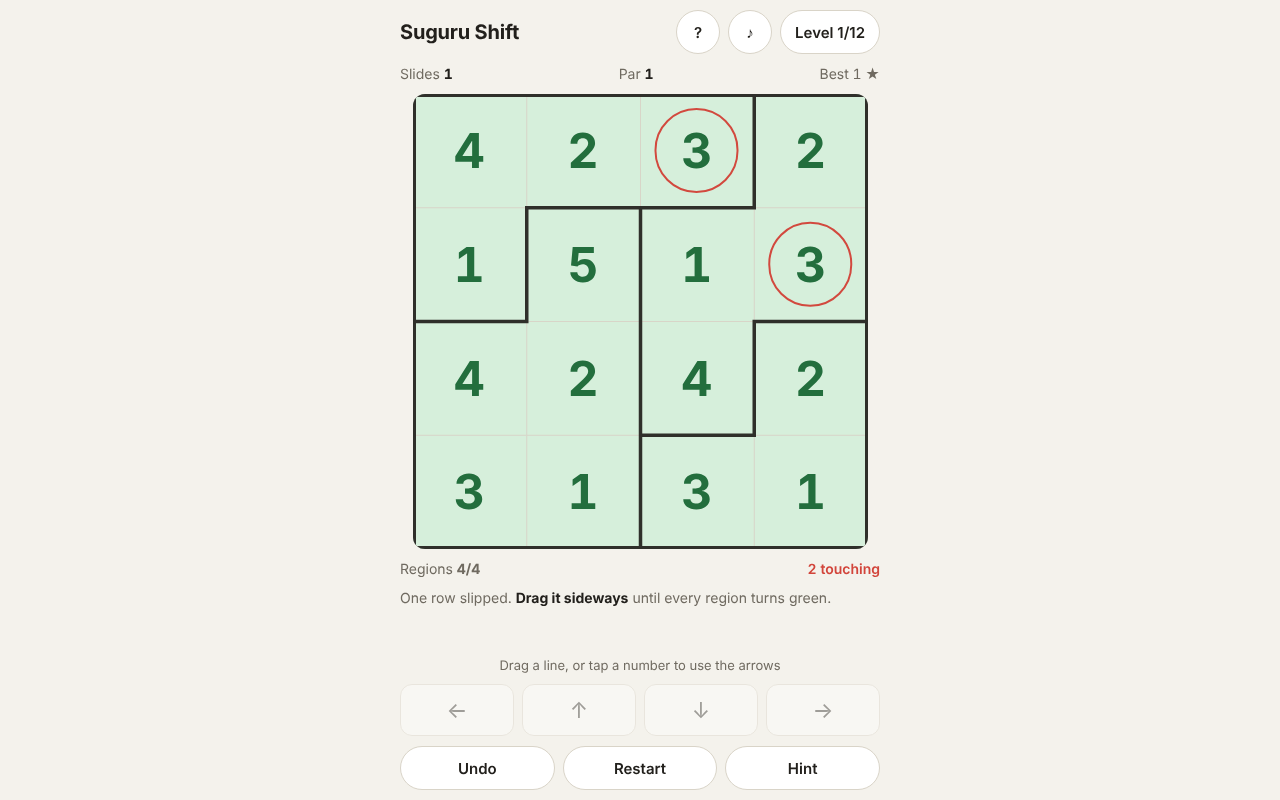
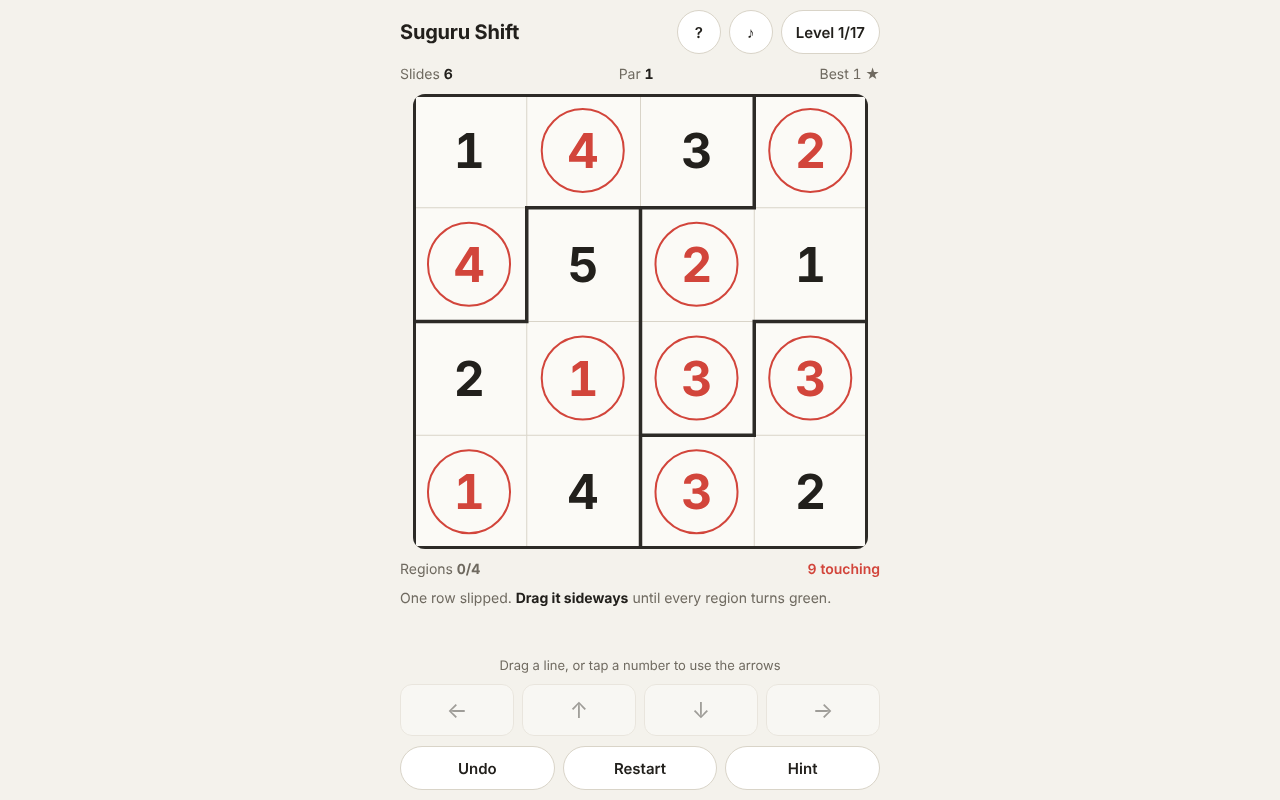
suguru-shift: night 2 brief + pins (5 new levels), live drag preview, two-step explaining hint
Claude-Session: https://claude.ai/code/session_014Xx1rMEJ4mQL23pJPUct2A

Changed region(s): [[0.3125, 0.0938, 0.6875, 0.6875], [0.625, 0.0312, 0.6875, 0.0625]]

diff --git a/games/suguru-shift/index.html b/games/suguru-shift/index.html
@@ -47,6 +47,11 @@
   .tile span { display: grid; place-items: center; width: 74%; height: 74%; border-radius: 50%; border: 2.5px solid transparent; }
   .tile.clash span { border-color: var(--clash); color: var(--clash); }
   .tile.okc span { color: var(--ok-ink); }
+  .tile.pin span { background: var(--wall); color: var(--cell); }
+  .tile.pin.clash span { color: var(--cell); }
+  .tile.pin::after { content: ""; position: absolute; top: 11%; right: 11%; width: 15%; height: 15%; border-radius: 50%; background: var(--hint); box-shadow: 0 0 0 2px var(--cell); }
+  .cell.why { background: color-mix(in srgb, var(--hint) 28%, var(--cell)); }
+  .cell.ok.why { background: color-mix(in srgb, var(--hint) 28%, var(--ok)); }
   #walls { position: absolute; inset: 0; pointer-events: none; }
   #cursor { position: absolute; border: 3px solid var(--sel); border-radius: 8px; pointer-events: none; display: none; }
   #flash { position: absolute; inset: 0; pointer-events: none; background: var(--ok); opacity: 0; transition: opacity .5s; }
@@ -60,6 +65,7 @@
   .pad { display: grid; grid-template-columns: repeat(4, 1fr); gap: 8px; }
   .pad button { min-height: 52px; border-radius: 12px; border: 1px solid var(--line); background: var(--panel); font-size: 22px; cursor: pointer; }
   .pad button:disabled { opacity: .4; cursor: default; }
+  .pad button.lockd { opacity: .4; }
   .chip.pulse { box-shadow: 0 0 0 3px var(--hint); }
   body.won .tools { display: none; }
   #win .row .chip { padding: 0 8px; }
@@ -147,6 +153,7 @@
     <p>This was a solved <strong>Suguru</strong>. A few rows and columns slipped. Slide them back.</p>
     <p>A region of N cells must hold 1 to N once each. The same number may never touch another, not even diagonally.</p>
     <p>Regions turn <strong>green</strong> when they hold the right numbers. <strong>Red rings</strong> mark equal numbers that touch.</p>
+    <p>A <strong>dark number</strong> is pinned: it is in its right place, and its row and column can't slide.</p>
     <p>Drag a row sideways or a column up and down; numbers wrap around the edge. Or tap a number and use the arrows. Each step a line moves is one slide.</p>
     <p class="keys">Keys: arrows move the cursor, Shift+arrow (or Space, then arrow) slides its line. Z undo · R restart · H hint · N next.</p>
     <button class="chip" id="helpClose">Got it</button>
@@ -155,7 +162,7 @@
 <script>
 "use strict";
 // ================= constants / levels =================
-const LEVELS = [{"w":4,"h":4,"regions":[0,0,0,1,0,2,1,1,2,2,1,3,2,2,3,3],"goal":[3,2,4,2,1,5,1,3,4,2,4,2,3,1,3,1],"start":[2,4,2,3,1,5,1,3,4,2,4,2,3,1,3,1],"solution":["r0R"],"par":1},{"w":4,"h":4,"regions":[1,0,0,3,1,1,0,0,1,1,0,2,2,2,2,2],"goal":[4,3,4,1,1,5,2,5,2,3,1,3,1,4,2,5],"start":[4,3,2,1,1,5,4,5,2,3,2,3,1,4,1,5],"solution":["c2U"],"par":1},{"w":4,"h":4,"regions":[1,3,3,2,1,2,2,2,1,1,0,2,1,0,0,0],"goal":[4,2,1,2,1,5,4,3,2,3,2,1,5,1,4,3],"start":[2,1,2,4,3,1,5,4,2,3,2,1,5,1,4,3],"solution":["r0R","r1L"],"par":2},{"w":5,"h":5,"regions":[0,0,2,2,2,0,0,0,2,4,3,3,3,2,4,5,3,3,4,4,1,1,1,1,4],"goal":[2,4,2,1,3,1,5,3,5,2,2,4,1,4,1,1,5,3,5,3,3,2,4,1,4],"start":[3,4,2,1,3,2,1,5,3,5,2,4,1,4,1,2,5,3,5,3,1,2,4,1,4],"solution":["c0U","r1L"],"par":2},{"w":5,"h":5,"regions":[0,1,1,1,1,0,0,6,2,2,5,0,0,2,2,5,3,4,4,2,3,3,3,4,4],"goal":[2,3,2,4,1,1,4,1,3,2,2,3,5,4,1,1,4,2,3,5,2,3,1,4,1],"start":[2,3,2,4,1,1,4,1,3,2,3,5,4,1,2,5,1,4,2,3,2,3,1,4,1],"solution":["r2R","r3L"],"par":2},{"w":5,"h":5,"regions":[4,4,2,5,5,4,4,2,0,0,3,3,2,2,0,3,1,6,2,0,1,1,1,1,0],"goal":[1,2,5,2,1,3,4,1,4,3,1,2,3,2,5,3,5,1,4,1,1,4,2,3,2],"start":[1,2,5,2,2,3,4,1,4,1,3,1,2,3,2,5,3,5,1,4,1,4,2,3,1],"solution":["r2L","r3L","c4U"],"par":3},{"w":5,"h":5,"regions":[2,2,1,1,3,0,1,1,3,3,0,0,0,4,3,5,0,6,4,3,5,5,4,4,4],"goal":[2,1,2,1,4,3,4,3,5,2,1,5,2,4,1,3,4,1,5,3,1,2,3,2,1],"start":[1,1,2,1,4,2,4,3,1,2,3,5,2,5,1,1,4,1,4,3,2,3,2,5,3],"solution":["c3U","r4R","c0U"],"par":3},{"w":6,"h":6,"regions":[6,6,6,0,3,3,2,6,6,0,0,3,2,2,2,7,7,3,2,1,7,7,4,3,1,1,5,4,4,4,1,1,5,5,5,4],"goal":[1,2,5,2,4,1,3,4,3,1,3,2,1,2,5,2,4,5,4,3,1,3,1,3,1,2,4,5,4,2,4,5,3,2,1,3],"start":[1,2,5,1,4,1,2,3,4,3,5,3,5,1,2,3,2,4,4,3,1,5,1,3,1,2,4,2,4,2,4,5,3,2,1,3],"solution":["r1L","c3D","r2L"],"par":3},{"w":6,"h":6,"regions":[7,7,3,3,3,3,7,7,2,3,5,5,1,2,2,4,0,0,1,6,2,4,4,0,1,6,6,4,4,0,1,1,6,6,8,0],"goal":[1,3,1,3,4,5,4,2,4,2,1,2,3,1,3,5,4,5,4,5,2,1,2,1,1,3,4,3,4,3,5,2,1,2,1,2],"start":[1,3,1,2,4,5,4,2,4,4,1,2,1,3,5,2,5,3,5,2,1,4,1,4,3,1,3,2,3,4,5,2,1,3,1,2],"solution":["c3D","r2R","r3R","r4L"],"par":4},{"w":6,"h":6,"regions":[8,8,8,1,1,3,2,2,8,1,1,3,2,2,2,7,1,3,0,0,0,0,6,3,4,4,0,5,6,6,4,4,5,5,5,6],"goal":[3,2,1,5,1,3,1,5,4,2,4,2,4,2,3,1,3,1,3,1,5,4,2,4,2,4,2,1,3,1,3,1,3,4,2,4],"start":[3,2,1,5,1,3,1,5,4,2,4,2,1,4,2,3,1,3,4,3,1,5,4,2,4,2,1,3,1,2,1,3,4,2,4,3],"solution":["r2L","r3L","r4R","r5R"],"par":4},{"w":6,"h":6,"regions":[1,1,8,2,2,3,1,1,8,0,3,3,6,1,8,0,3,3,6,6,6,0,0,4,6,5,7,7,0,4,5,5,5,5,4,4],"goal":[2,1,2,1,2,1,3,4,3,4,3,4,2,5,1,2,5,2,1,3,4,3,1,4,5,2,1,2,5,3,1,4,5,3,1,2],"start":[4,2,1,2,1,1,2,3,4,3,4,2,1,5,1,2,5,3,5,3,4,3,1,2,4,2,1,2,5,4,1,5,3,1,2,3],"solution":["c0D","c5U","r0L","r1L","r5R"],"par":5},{"w":6,"h":6,"regions":[4,4,6,0,0,8,4,4,6,0,0,7,4,5,1,0,2,7,5,5,1,1,2,7,5,3,3,1,2,7,3,3,3,1,2,2],"goal":[1,4,1,4,2,1,5,3,2,3,5,3,2,1,5,1,2,4,4,3,2,4,3,1,2,1,5,1,5,2,3,4,2,3,4,1],"start":[4,2,4,2,3,1,5,3,5,3,5,4,2,1,2,1,2,1,2,4,3,1,4,3,1,5,2,5,1,2,4,1,3,4,1,3],"solution":["r0R","r3L","r5R","c2D","r4R","c5D"],"par":6}];
+const LEVELS = [{"w":4,"h":4,"regions":[0,0,0,1,0,2,1,1,2,2,1,3,2,2,3,3],"goal":[3,2,4,2,1,5,1,3,4,2,4,2,3,1,3,1],"start":[2,4,2,3,1,5,1,3,4,2,4,2,3,1,3,1],"solution":["r0R"],"par":1},{"w":4,"h":4,"regions":[1,0,0,3,1,1,0,0,1,1,0,2,2,2,2,2],"goal":[4,3,4,1,1,5,2,5,2,3,1,3,1,4,2,5],"start":[4,3,2,1,1,5,4,5,2,3,2,3,1,4,1,5],"solution":["c2U"],"par":1},{"w":4,"h":4,"regions":[1,3,3,2,1,2,2,2,1,1,0,2,1,0,0,0],"goal":[4,2,1,2,1,5,4,3,2,3,2,1,5,1,4,3],"start":[2,1,2,4,3,1,5,4,2,3,2,1,5,1,4,3],"solution":["r0R","r1L"],"par":2},{"w":5,"h":5,"regions":[0,0,2,2,2,0,0,0,2,4,3,3,3,2,4,5,3,3,4,4,1,1,1,1,4],"goal":[2,4,2,1,3,1,5,3,5,2,2,4,1,4,1,1,5,3,5,3,3,2,4,1,4],"start":[3,4,2,1,3,2,1,5,3,5,2,4,1,4,1,2,5,3,5,3,1,2,4,1,4],"solution":["c0U","r1L"],"par":2},{"w":5,"h":5,"regions":[0,1,1,1,1,0,0,6,2,2,5,0,0,2,2,5,3,4,4,2,3,3,3,4,4],"goal":[2,3,2,4,1,1,4,1,3,2,2,3,5,4,1,1,4,2,3,5,2,3,1,4,1],"start":[2,3,2,4,1,1,4,1,3,2,3,5,4,1,2,5,1,4,2,3,2,3,1,4,1],"solution":["r2R","r3L"],"par":2},{"w":5,"h":5,"regions":[4,4,2,5,5,4,4,2,0,0,3,3,2,2,0,3,1,6,2,0,1,1,1,1,0],"goal":[1,2,5,2,1,3,4,1,4,3,1,2,3,2,5,3,5,1,4,1,1,4,2,3,2],"start":[1,2,5,2,2,3,4,1,4,1,3,1,2,3,2,5,3,5,1,4,1,4,2,3,1],"solution":["r2L","r3L","c4U"],"par":3},{"w":5,"h":5,"regions":[2,2,1,1,3,0,1,1,3,3,0,0,0,4,3,5,0,6,4,3,5,5,4,4,4],"goal":[2,1,2,1,4,3,4,3,5,2,1,5,2,4,1,3,4,1,5,3,1,2,3,2,1],"start":[1,1,2,1,4,2,4,3,1,2,3,5,2,5,1,1,4,1,4,3,2,3,2,5,3],"solution":["c3U","r4R","c0U"],"par":3},{"w":6,"h":6,"regions":[6,6,6,0,3,3,2,6,6,0,0,3,2,2,2,7,7,3,2,1,7,7,4,3,1,1,5,4,4,4,1,1,5,5,5,4],"goal":[1,2,5,2,4,1,3,4,3,1,3,2,1,2,5,2,4,5,4,3,1,3,1,3,1,2,4,5,4,2,4,5,3,2,1,3],"start":[1,2,5,1,4,1,2,3,4,3,5,3,5,1,2,3,2,4,4,3,1,5,1,3,1,2,4,2,4,2,4,5,3,2,1,3],"solution":["r1L","c3D","r2L"],"par":3},{"w":6,"h":6,"regions":[7,7,3,3,3,3,7,7,2,3,5,5,1,2,2,4,0,0,1,6,2,4,4,0,1,6,6,4,4,0,1,1,6,6,8,0],"goal":[1,3,1,3,4,5,4,2,4,2,1,2,3,1,3,5,4,5,4,5,2,1,2,1,1,3,4,3,4,3,5,2,1,2,1,2],"start":[1,3,1,2,4,5,4,2,4,4,1,2,1,3,5,2,5,3,5,2,1,4,1,4,3,1,3,2,3,4,5,2,1,3,1,2],"solution":["c3D","r2R","r3R","r4L"],"par":4},{"w":6,"h":6,"regions":[8,8,8,1,1,3,2,2,8,1,1,3,2,2,2,7,1,3,0,0,0,0,6,3,4,4,0,5,6,6,4,4,5,5,5,6],"goal":[3,2,1,5,1,3,1,5,4,2,4,2,4,2,3,1,3,1,3,1,5,4,2,4,2,4,2,1,3,1,3,1,3,4,2,4],"start":[3,2,1,5,1,3,1,5,4,2,4,2,1,4,2,3,1,3,4,3,1,5,4,2,4,2,1,3,1,2,1,3,4,2,4,3],"solution":["r2L","r3L","r4R","r5R"],"par":4},{"w":6,"h":6,"regions":[1,1,8,2,2,3,1,1,8,0,3,3,6,1,8,0,3,3,6,6,6,0,0,4,6,5,7,7,0,4,5,5,5,5,4,4],"goal":[2,1,2,1,2,1,3,4,3,4,3,4,2,5,1,2,5,2,1,3,4,3,1,4,5,2,1,2,5,3,1,4,5,3,1,2],"start":[4,2,1,2,1,1,2,3,4,3,4,2,1,5,1,2,5,3,5,3,4,3,1,2,4,2,1,2,5,4,1,5,3,1,2,3],"solution":["c0D","c5U","r0L","r1L","r5R"],"par":5},{"w":6,"h":6,"regions":[4,4,6,0,0,8,4,4,6,0,0,7,4,5,1,0,2,7,5,5,1,1,2,7,5,3,3,1,2,7,3,3,3,1,2,2],"goal":[1,4,1,4,2,1,5,3,2,3,5,3,2,1,5,1,2,4,4,3,2,4,3,1,2,1,5,1,5,2,3,4,2,3,4,1],"start":[4,2,4,2,3,1,5,3,5,3,5,4,2,1,2,1,2,1,2,4,3,1,4,3,1,5,2,5,1,2,4,1,3,4,1,3],"solution":["r0R","r3L","r5R","c2D","r4R","c5D"],"par":6},{"w":5,"h":5,"regions":[3,3,5,1,6,3,3,5,1,1,2,2,5,1,1,4,2,2,0,0,4,4,0,0,0],"goal":[2,1,2,5,1,3,4,3,4,3,1,2,1,2,1,3,4,3,4,5,2,1,2,1,3],"start":[1,2,1,2,5,3,4,3,4,3,2,1,2,1,1,3,4,3,4,5,2,1,2,1,3],"pins":[9],"solution":["r0L","r2R"],"par":2},{"w":5,"h":5,"regions":[4,4,1,1,6,4,0,3,1,1,0,0,3,2,1,0,3,3,2,2,5,5,3,2,2],"goal":[2,1,2,4,1,3,4,3,5,3,2,1,2,4,1,3,4,5,3,5,1,2,1,2,1],"start":[2,1,2,4,1,3,4,3,5,3,1,2,1,2,4,5,3,4,5,3,2,1,2,1,1],"pins":[4],"solution":["r2L","r3L","r4R"],"par":3},{"w":5,"h":5,"regions":[6,3,3,4,4,1,1,3,3,4,1,1,2,2,2,1,0,0,2,2,5,5,0,0,0],"goal":[1,3,1,3,2,2,4,2,4,1,1,3,1,3,2,5,4,5,4,5,1,2,3,1,2],"start":[1,3,1,3,1,1,4,2,4,2,5,2,3,1,3,1,4,5,4,2,5,2,3,1,2],"pins":[18,22],"solution":["r2L","c0U","c4D"],"par":3},{"w":6,"h":6,"regions":[0,0,8,8,4,4,0,8,8,2,4,4,0,3,3,2,2,2,0,3,3,5,5,2,6,6,3,1,1,1,6,6,6,1,1,7],"goal":[4,5,4,3,4,3,1,2,1,2,1,2,3,5,3,4,5,3,2,1,2,1,2,1,5,3,4,3,5,4,4,1,2,1,2,1],"start":[4,1,4,3,4,3,2,5,2,1,2,1,3,1,3,4,5,3,2,5,2,1,2,1,4,1,3,4,3,5,4,5,2,1,2,1],"pins":[18,34],"solution":["c1U","r1L","r4L"],"par":3},{"w":6,"h":6,"regions":[7,7,5,1,2,6,7,4,5,1,2,6,4,4,5,1,2,6,4,4,5,1,2,6,3,3,3,8,8,6,3,3,0,0,0,0],"goal":[2,1,2,1,2,1,3,5,4,3,4,3,1,2,1,2,1,2,3,4,3,4,3,4,2,1,5,1,2,5,4,3,2,4,3,1],"start":[1,2,4,2,3,3,3,5,1,3,1,2,1,2,3,2,4,4,3,4,5,4,1,5,2,1,2,1,3,1,4,3,1,4,2,2],"pins":[12,9],"solution":["c2D","c4U","c5D","r0L"],"par":4}];
 const TIPS = [
   "One row slipped. <strong>Drag it sideways</strong> until every region turns green.",
   "This time a <strong>column</strong> slipped. Drag it up or down.",
@@ -165,18 +172,25 @@ const TIPS = [
   "Three slides. Look for the region that is most wrong, and ask which line runs through it.",
   "Rows and columns both moved. Undo is free; try a slide and read the colours.",
   "6×6 now. A slid line wraps around: what falls off one edge comes back on the other.",
-  "Four slides. Hint shows the next slide if you get stuck (it still counts your slides).",
+  "Four slides. Hint points at a clue; press it again for the direction.",
   "Four slides, mixed rows and columns. Order matters when a row and a column cross.",
   "Five slides. Par is the fewest slides that solve it.",
-  "The last one: six slides. Take your time.",
+  "Six slides. Take your time.",
+  "New: a <strong>pin</strong>. The dark number is in its right place, and its row and column can't slide.",
+  "Without the pin this board has two answers. The pin tells you which one is right.",
+  "Two pins hold two rows and two columns. Fewer lines to try, so read each one carefully.",
+  "6×6 with two pins. A pinned number never moves, but a column can still slide through a pinned row.",
+  "The last one: four slides around two pins.",
 ];
 const STORE = "suguru-shift.v1";
 
 // ================= core (pure, no DOM) =================
-function moveList(W, H) {
-  const m = [];
-  for (let r = 0; r < H; r++) m.push("r" + r + "L", "r" + r + "R");
-  for (let c = 0; c < W; c++) m.push("c" + c + "U", "c" + c + "D");
+// a pin fixes its number: its row and its column can't slide
+function lockedLines(W, pins) { const s = new Set(); for (const k of pins || []) { s.add("r" + Math.floor(k / W)); s.add("c" + (k % W)); } return s; }
+function moveList(W, H, pins) {
+  const m = [], lk = lockedLines(W, pins);
+  for (let r = 0; r < H; r++) if (!lk.has("r" + r)) m.push("r" + r + "L", "r" + r + "R");
+  for (let c = 0; c < W; c++) if (!lk.has("c" + c)) m.push("c" + c + "U", "c" + c + "D");
   return m;
 }
 function parseMove(mv) { return { t: mv[0], i: +mv.slice(1, -1), d: mv[mv.length - 1] }; }
@@ -203,10 +217,10 @@ function analyse(g, W, H, reg, size) {
   return { valid: okRegions.size === R && clash.size === 0, okRegions, clash };
 }
 // shortest slide list from grid a to grid b (bidirectional BFS), or null past the node budget
-function pathBetween(a, b, W, H, budget = 90000) {
+function pathBetween(a, b, W, H, pins, budget = 90000) {
   const ka = a.join(","), kb = b.join(",");
   if (ka === kb) return [];
-  const moves = moveList(W, H);
+  const moves = moveList(W, H, pins);
   const fw = new Map([[ka, null]]), bw = new Map([[kb, null]]);
   let fq = [a], bq = [b], count = 2;
   const trace = (map, k, fwd) => { const out = []; while (map.get(k)) { const [pk, mv] = map.get(k); out.push(mv); k = pk; } return fwd ? out.reverse() : out.map(inverse); };
@@ -229,13 +243,38 @@ function pathBetween(a, b, W, H, budget = 90000) {
   }
   return null;
 }
+// why a line is suspect: a broken region or a touching pair that has a cell on it
+function lineClue(g, line) {
+  const { W, H, grid, reg, size } = g, t = line[0], i = +line.slice(1);
+  const on = (k) => (t === "r" ? Math.floor(k / W) === i : k % W === i);
+  const where = (t === "r" ? "row " : "column ") + (i + 1);
+  for (let r = 0; r < size.length; r++) {
+    const cells = []; for (let k = 0; k < grid.length; k++) if (reg[k] === r) cells.push(k);
+    const big = cells.find((k) => grid[k] > size[r] && on(k));
+    if (big !== undefined) return { cells, text: `a ${grid[big]} sits in a region of ${size[r]} on ${where}` };
+    for (const k of cells) {
+      const twin = cells.find((j) => j !== k && grid[j] === grid[k]);
+      if (twin !== undefined && (on(k) || on(twin))) return { cells, text: `the region with two ${grid[k]}s runs through ${where}` };
+    }
+  }
+  for (let k = 0; k < grid.length; k++) {
+    if (!on(k)) continue;
+    const x = k % W, y = Math.floor(k / W);
+    for (let dy = -1; dy <= 1; dy++) for (let dx = -1; dx <= 1; dx++) {
+      const nx = x + dx, ny = y + dy; if ((!dx && !dy) || nx < 0 || ny < 0 || nx >= W || ny >= H) continue;
+      if (grid[ny * W + nx] === grid[k]) return { cells: [k, ny * W + nx], text: `two ${grid[k]}s touch on ${where}` };
+    }
+  }
+  return { cells: [], text: `${where} is out of place` };
+}
 function newGame(level) {
   const L = LEVELS[level];
-  return { level, W: L.w, H: L.h, reg: L.regions, size: regionSizes(L.regions), grid: L.start.slice(), slides: 0, hints: 0,
+  return { level, W: L.w, H: L.h, reg: L.regions, size: regionSizes(L.regions), pins: L.pins || [], locked: lockedLines(L.w, L.pins),
+    grid: L.start.slice(), slides: 0, hints: 0,
     history: [], screen: "playing" };
 }
 function slide(g, mv, steps = 1) {
-  if (g.screen !== "playing" || steps <= 0) return g;
+  if (g.screen !== "playing" || steps <= 0 || g.locked.has(mv.slice(0, -1))) return g;
   let grid = g.grid;
   for (let i = 0; i < steps; i++) grid = applyMove(grid, g.W, g.H, mv);
   const won = analyse(grid, g.W, g.H, g.reg, g.size).valid;
@@ -271,6 +310,7 @@ const reduceMotion = () => window.matchMedia && matchMedia("(prefers-reduced-mot
 // ================= rendering =================
 const $ = (id) => document.getElementById(id);
 let game = newGame(Math.min(Math.max(0, save.level | 0), LEVELS.length - 1));
+let hintKey = "", hintStage = 0, hintLeft = 0, hintWhy = new Set();
 let cursor = 0, cursorShown = false, hintMove = null, drag = null, anim = null, lastOk = new Set(), spaceArmed = false;
 let cellEls = [], tileEls = [], ghost = null;
 
@@ -308,8 +348,21 @@ function buildBoard() {
   lastOk = analyse(game.grid, W, H, game.reg, game.size).okRegions;
 }
 function placeTiles() {
-  const { W, H, grid } = game, a = analyse(grid, W, H, game.reg, game.size);
-  const off = drag && drag.axis ? drag.off : 0, cs = cellSize();
+  const { W, H, grid } = game, cs = cellSize();
+  const off = drag && drag.axis ? drag.off : 0;
+  // live preview: colour the board as it would be if the line snapped to the nearest step now
+  let a = analyse(grid, W, H, game.reg, game.size), dest = (k) => k;
+  if (drag && drag.axis && !drag.locked) {
+    const unit = drag.axis === "r" ? cs.w : cs.h, n = drag.axis === "r" ? W : H, st = Math.round(off / unit), sh = ((st % n) + n) % n;
+    if (sh) {
+      const line = drag.axis === "r" ? drag.y : drag.x;
+      const mv = drag.axis + line + (drag.axis === "r" ? "R" : "D");
+      let pg = grid; for (let i = 0; i < sh; i++) pg = applyMove(pg, W, H, mv);
+      a = analyse(pg, W, H, game.reg, game.size);
+      dest = (k) => drag.axis === "r" ? (Math.floor(k / W) === line ? Math.floor(k / W) * W + ((k % W) + sh) % W : k)
+        : (k % W === line ? ((Math.floor(k / W) + sh) % H) * W + k % W : k);
+    }
+  }
   ghost.style.display = "none";
   for (let k = 0; k < W * H; k++) {
     const x = k % W, y = (k / W) | 0, t = tileEls[k];
@@ -326,9 +379,10 @@ function placeTiles() {
     }
     t.style.transform = `translate(${px}px, ${py}px)`;
     t.firstChild.textContent = grid[k];
-    const moving = inLine && Math.abs(off) > 1;
-    t.classList.toggle("clash", !moving && a.clash.has(k));
-    t.classList.toggle("okc", !moving && a.okRegions.has(game.reg[k]));
+    const d = dest(k);
+    t.classList.toggle("clash", a.clash.has(d));
+    t.classList.toggle("okc", a.okRegions.has(game.reg[d]));
+    t.classList.toggle("pin", game.pins.includes(k));
   }
   for (let k = 0; k < W * H; k++) {
     const x = k % W, y = (k / W) | 0, c = cellEls[k];
@@ -336,6 +390,7 @@ function placeTiles() {
     c.classList.toggle("drag", !!(drag && drag.axis && ((drag.axis === "r" && y === drag.y) || (drag.axis === "c" && x === drag.x))));
     const hm = hintMove && parseMove(hintMove);
     c.classList.toggle("hint", !!(hm && ((hm.t === "r" && y === hm.i) || (hm.t === "c" && x === hm.i))));
+    c.classList.toggle("why", hintWhy.has(k));
   }
   const cur = $("cursor");
   cur.style.display = cursorShown && game.screen === "playing" ? "block" : "none";
@@ -361,8 +416,13 @@ function render() {
   document.body.classList.toggle("won", game.screen === "won");
   $("undoBtn").disabled = !game.history.length;
   const sel = cursorShown && game.screen === "playing";
-  for (const id of ["padL", "padU", "padD", "padR"]) $(id).disabled = !sel;
-  $("padNote").textContent = sel ? `Arrows slide row ${((cursor / game.W) | 0) + 1} or column ${(cursor % game.W) + 1}` : "Drag a line, or tap a number to use the arrows";
+  const cx = cursor % game.W, cy = (cursor / game.W) | 0;
+  for (const id of ["padL", "padR"]) { $(id).disabled = !sel; $(id).classList.toggle("lockd", sel && game.locked.has("r" + cy)); }
+  for (const id of ["padU", "padD"]) { $(id).disabled = !sel; $(id).classList.toggle("lockd", sel && game.locked.has("c" + cx)); }
+  const rl = game.locked.has("r" + cy), cl = game.locked.has("c" + cx);
+  $("padNote").textContent = !sel ? "Drag a line, or tap a number to use the arrows"
+    : rl && cl ? `Row ${cy + 1} and column ${cx + 1} are pinned` : rl ? `Arrows slide column ${cx + 1} (row ${cy + 1} is pinned)`
+    : cl ? `Arrows slide row ${cy + 1} (column ${cx + 1} is pinned)` : `Arrows slide row ${cy + 1} or column ${cx + 1}`;
   if (game.screen === "won") {
     const atPar = game.slides <= L.par;
     const allDone = LEVELS.every((_, i) => save.best[i]), stars = LEVELS.filter((L2, i) => save.best[i] && save.best[i] <= L2.par).length;
@@ -374,12 +434,13 @@ function render() {
   $("muteBtn").setAttribute("aria-label", save.muted ? "Sound off" : "Sound on"); $("muteBtn").style.opacity = save.muted ? .5 : 1;
 }
 let hintText = "";
+function clearHint() { hintMove = null; hintText = ""; hintKey = ""; hintStage = 0; hintWhy = new Set(); }
 
 // ================= actions =================
 function commit(mv, steps = 1) {
   const before = analyse(game.grid, game.W, game.H, game.reg, game.size).okRegions;
   game = slide(game, mv, steps);
-  hintMove = null; hintText = "";
+  clearHint();
   const after = analyse(game.grid, game.W, game.H, game.reg, game.size).okRegions;
   const gained = [...after].filter((r) => !before.has(r)).length;
   tone(gained ? 660 : 440, 0.07);
@@ -395,32 +456,41 @@ function onWin() {
   if (!reduceMotion()) { const f = $("flash"); f.style.opacity = .55; setTimeout(() => (f.style.opacity = 0), 220); }
   cursorShown = false;
 }
-function doUndo() { if (anim) return; game = undo(game); hintMove = null; hintText = ""; render(); }
-function doRestart() { if (anim) return; game = restart(game); hintMove = null; hintText = ""; render(); }
+function doUndo() { if (anim) return; game = undo(game); clearHint(); render(); }
+function doRestart() { if (anim) return; game = restart(game); clearHint(); render(); }
 function loadLevel(i) {
   game = newGame(Math.max(0, Math.min(LEVELS.length - 1, i)));
   save.level = game.level; persist();
-  hintMove = null; hintText = ""; cursorShown = false; cursor = 0;
+  clearHint(); cursorShown = false; cursor = 0;
   buildBoard(); render();
 }
 function findHint() {
   const L = LEVELS[game.level];
   if (game.screen !== "playing") return null;
-  return pathBetween(game.grid, L.goal, game.W, game.H);
+  return pathBetween(game.grid, L.goal, game.W, game.H, game.pins);
 }
 function doHint() {
   if (game.screen !== "playing" || anim) return;
+  const key = game.grid.join();
+  if (hintMove && hintKey === key && hintStage === 1) { // second press: name the direction
+    const m = parseMove(hintMove), dir = { L: "left", R: "right", U: "up", D: "down" }[m.d];
+    game = { ...game, hints: game.hints + 1 }; hintStage = 2;
+    hintText = `Hint: slide <strong>${m.t === "r" ? "row" : "column"} ${m.i + 1} ${dir}</strong> (${hintLeft} ${hintLeft === 1 ? "slide" : "slides"} to go).`;
+    render(); return;
+  }
   const p = findHint();
   if (!p || !p.length) {
-    hintMove = null; game = { ...game, hints: game.hints + 1 };
+    clearHint(); game = { ...game, hints: game.hints + 1 };
     hintText = game.history.length ? "Hint: you are far from the answer. Press <strong>Undo</strong>, then ask again." : "Hint: press <strong>Restart</strong>, then ask again.";
     const btn = game.history.length ? $("undoBtn") : $("restartBtn");
     btn.classList.add("pulse"); setTimeout(() => btn.classList.remove("pulse"), 1600);
     render(); return;
   }
-  hintMove = p[0]; game = { ...game, hints: game.hints + 1 };
-  const m = parseMove(hintMove), dir = { L: "left", R: "right", U: "up", D: "down" }[m.d];
-  hintText = `Hint: slide <strong>${m.t === "r" ? "row" : "column"} ${m.i + 1} ${dir}</strong> (${p.length} ${p.length === 1 ? "slide" : "slides"} to go).`;
+  // first press: the clue and the line, not the direction
+  hintMove = p[0]; hintKey = key; hintStage = 1; hintLeft = p.length; game = { ...game, hints: game.hints + 1 };
+  const clue = lineClue(game, hintMove.slice(0, -1));
+  hintWhy = new Set(clue.cells);
+  hintText = `Hint: ${clue.text}. Try sliding that line. <strong>Hint again</strong> for the direction.`;
   render();
 }
 // animated slide of the cursor's line (pad / keyboard)
@@ -450,10 +520,17 @@ function animateSlide(mv, steps = 1, fromOff = 0) {
   };
   requestAnimationFrame(step);
 }
+function lockedNote(line) {
+  const t = line[0] === "r" ? "Row" : "Column";
+  hintMove = null; hintWhy = new Set(); hintStage = 0;
+  hintText = `${t} ${+line.slice(1) + 1} can't slide: a <strong>pin</strong> holds it.`;
+  tone(196, 0.09, 0, 0.04); render();
+}
 function padSlide(dir) {
   if (game.screen !== "playing") return;
   const x = cursor % game.W, y = (cursor / game.W) | 0;
   const mv = dir === "L" || dir === "R" ? "r" + y + dir : "c" + x + dir;
+  if (game.locked.has(mv.slice(0, -1))) { lockedNote(mv.slice(0, -1)); return; }
   animateSlide(mv, 1);
 }
 
@@ -471,8 +548,12 @@ board.addEventListener("pointerdown", (e) => {
 board.addEventListener("pointermove", (e) => {
   if (!drag || anim || drag.id !== e.pointerId) return;
   const dx = e.clientX - drag.sx, dy = e.clientY - drag.sy;
-  if (!drag.axis && Math.hypot(dx, dy) > 8) { drag.axis = Math.abs(dx) >= Math.abs(dy) ? "r" : "c"; board.classList.add("dragging"); hintText = hintText; }
-  if (drag.axis) { drag.off = drag.axis === "r" ? dx : dy; placeTiles(); }
+  if (!drag.axis && Math.hypot(dx, dy) > 8) {
+    drag.axis = Math.abs(dx) >= Math.abs(dy) ? "r" : "c"; board.classList.add("dragging");
+    drag.locked = game.locked.has(drag.axis + (drag.axis === "r" ? drag.y : drag.x));
+    if (drag.locked) lockedNote(drag.axis + (drag.axis === "r" ? drag.y : drag.x));
+  }
+  if (drag.axis) { const raw = drag.axis === "r" ? dx : dy; drag.off = drag.locked ? Math.max(-6, Math.min(6, raw * 0.1)) : raw; placeTiles(); }
 });
 function endDrag(e, cancel) {
   if (!drag || anim || drag.id !== e.pointerId) return;
@@ -482,7 +563,7 @@ function endDrag(e, cancel) {
     drag = null; cursor = d.y * game.W + d.x; cursorShown = true; tone(330, 0.04, 0, 0.03); render(); return;
   }
   const cs = cellSize(), unit = d.axis === "r" ? cs.w : cs.h, n = d.axis === "r" ? game.W : game.H;
-  let steps = cancel ? 0 : Math.round(d.off / unit);
+  let steps = cancel || d.locked ? 0 : Math.round(d.off / unit);
   let norm = ((steps % n) + n) % n; if (norm > n / 2) norm -= n; // fewest slides that give the same result
   const line = d.axis === "r" ? d.y : d.x;
   const mv = d.axis + line + (d.axis === "r" ? (norm >= 0 ? "R" : "L") : (norm >= 0 ? "D" : "U"));
@@ -539,7 +620,7 @@ function openPicker() {
   LEVELS.forEach((L, i) => {
     const b = document.createElement("button"), best = save.best[i];
     b.className = "lv" + (best ? " done" : "") + (i === game.level ? " cur" : "");
-    b.innerHTML = `<b>${i + 1}${best && best <= L.par ? " ★" : ""}</b><small>${L.w}×${L.h} · par ${L.par}</small>`;
+    b.innerHTML = `<b>${i + 1}${best && best <= L.par ? " ★" : ""}</b><small>${L.w}×${L.h} · par ${L.par}${L.pins ? " · pin" : ""}</small>`;
     b.setAttribute("aria-label", `Level ${i + 1}, ${L.w} by ${L.h}, par ${L.par}${best ? ", best " + best : ""}`);
     b.onclick = () => { closeSheets(); loadLevel(i); };
     g.appendChild(b);
@@ -560,20 +641,21 @@ if (!save.seenHelp && game.level === 0) $("help").classList.add("open");
 function qaState() {
   const a = analyse(game.grid, game.W, game.H, game.reg, game.size);
   return { screen: game.screen, level: game.level, slides: game.slides, par: LEVELS[game.level].par, grid: game.grid.slice(),
-    valid: a.valid, regionsOk: a.okRegions.size, regionsTotal: game.size.length, clashes: a.clash.size };
+    valid: a.valid, regionsOk: a.okRegions.size, regionsTotal: game.size.length, clashes: a.clash.size, pins: game.pins.slice(),
+    locked: [...game.locked], hintStage, hintText: hintText.replace(/<[^>]+>/g, "") };
 }
 window.__qa = {
   state: qaState,
-  actions: () => game.screen === "playing" ? moveList(game.W, game.H).concat(game.history.length ? ["undo"] : [], ["restart"]) : [],
+  actions: () => game.screen === "playing" ? moveList(game.W, game.H, game.pins).concat(game.history.length ? ["undo"] : [], ["restart"]) : [],
   act: (a) => {
     if (a === "undo") return doUndo();
     if (a === "restart") return doRestart();
-    if (typeof a === "string" && /^[rc]\d+[LRUD]$/.test(a)) { const p = parseMove(a); if ((p.t === "r" && p.i < game.H && "LR".includes(p.d)) || (p.t === "c" && p.i < game.W && "UD".includes(p.d))) commit(a, 1); }
+    if (typeof a === "string" && /^[rc]\d+[LRUD]$/.test(a)) { const p = parseMove(a); if (((p.t === "r" && p.i < game.H && "LR".includes(p.d)) || (p.t === "c" && p.i < game.W && "UD".includes(p.d))) && !game.locked.has(p.t + p.i)) commit(a, 1); }
   },
   reset: (level) => { $("help").classList.remove("open"); loadLevel(level ?? game.level); },
   levels: () => LEVELS.length,
   solve: () => {
-    const p = pathBetween(game.grid, LEVELS[game.level].goal, game.W, game.H);
+    const p = pathBetween(game.grid, LEVELS[game.level].goal, game.W, game.H, game.pins);
     return p ? p : ["restart", ...LEVELS[game.level].solution];
   },
   hint: () => { doHint(); return hintMove; },

diff --git a/games/suguru-shift/BRIEF.md b/games/suguru-shift/BRIEF.md
@@ -25,7 +25,18 @@ drawing UI on the phone.)
 ## References
 - No links in the pitch. Loopover (row/column wrap-sliding puzzle) and Suguru/Tectonic rules are known; nothing fetched.
 
-## Tonight (night 1)
+## Tonight (night 2)
+No notes from Benji; the studio continues its own game (night 2 of 3). Input: the reviewer's open nice-to-have
+and the "Later" list.
+1. **Pins** (from Later: "numbers pinned to their cell"): a pinned number is always in its right place, and its row
+   and its column can't slide. Six new levels (13–18, 5×5 and 6×6) where the pins matter: each is proven to have
+   exactly one valid grid at par with the pins, and without them the board would be ambiguous or shorter.
+2. **Live drag preview** (reviewer's nice-to-have): while you drag, the colours show the board as it would be if
+   you let go at the nearest step.
+3. **Hints that explain** (Later + last night's question): the first Hint press names the clue ("this region has
+   two 3s, and row 2 runs through it") and marks the line; a second press on the same board names the direction.
+
+## Night 1 goals (done)
 1. Core: fixed regions, numbers that slide with wrap-around, live rule feedback (regions turn green when they hold
    1..N, red rings on equal numbers that touch, also diagonally), win on any valid Suguru.
 2. 12 generated levels, 4×4 to 6×6, par 1 to 6, each proven: no valid grid within par−1 slides and exactly one
@@ -38,10 +49,14 @@ drawing UI on the phone.)
 - Par = fewest slides; a slide is one step; sliding a row two steps counts as two slides.
 - All levels open from the start; the picker marks solved and at-par levels.
 
+## Assumptions (night 2)
+- Pins lock both the row and the column of the pinned number (one rule, one icon). Whole locked lines without a
+  pin were not built: a pin explains itself ("this number can't move") better than a lock on a row.
+- A two-step hint (clue first, direction second) answers last night's open question; each press counts as a hint.
+
 ## Later
 - Daily generated board; bigger 7×7 boards (needs a faster solver for par proofs).
-- Locked lines (rows that can't move), or numbers that are pinned to their cell.
-- Hints that explain the deduction instead of showing the move.
+- Pinned levels where the pin forces a detour (the scrambled line itself is pinned).
 
 ## Design
 ### Core loop
